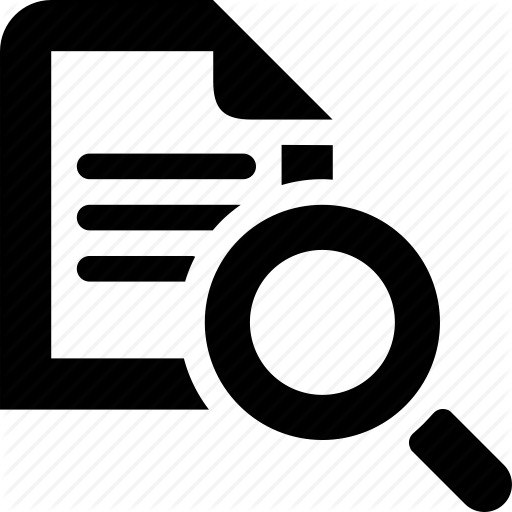
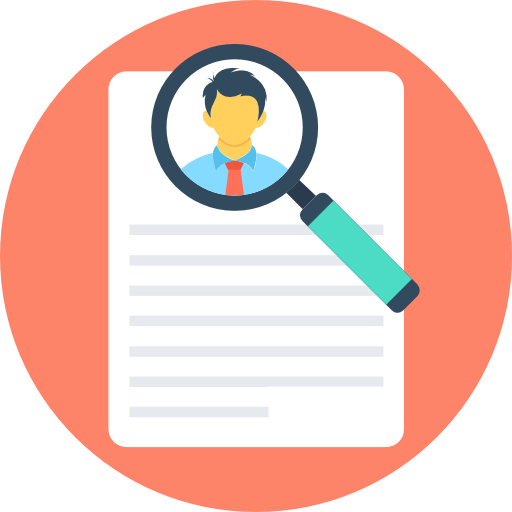
restyle

diff --git a/lib/rescan.html b/lib/rescan.html
@@ -12,11 +12,14 @@
     <link rel="stylesheet" href="./css/results-percentage.css" type="text/css">
     <link rel="stylesheet" href="../assets/rescan.css" type="text/css">
     <link href="https://fonts.googleapis.com/css?family=Abril+Fatface" rel="stylesheet">
+    <link href="https://fonts.googleapis.com/css?family=Lobster" rel="stylesheet">
+    <link href="https://fonts.googleapis.com/css?family=Questrial" rel="stylesheet">
     <title>re:Scan</title>
   </head>
   <body>
     <div id="root">
       <div class="header-container">
+        <img src="icon.png" alt="icon" height="100" width="100">
         <h1>re:Scan</h1>
         <div id="sub">a light weight resume scanner</div>
       </div>
@@ -27,7 +30,7 @@
       </div>
 
       <div class="jd-container">
-        <button id="extract-description">Get description</button>
+        <button id="extract-description">Get Similarity Score</button>
       </div>
 
       <div class="results-container">

diff --git a/lib/css/resume-submission.css b/lib/css/resume-submission.css
@@ -13,32 +13,37 @@
   display: none;
   color: #383838;
   font-size: 11.5px;
+  outline: none;
 }
 
 #upload-resume {
-  margin: auto;
-  font-family: 'Raleway', sans-serif;
-  font-weight: 400;
-  color: #4F628E;
   outline: 0;
   width: 60%;
-  padding: 8px;
+  padding: 10px;
   border: none;
   box-shadow: none;
   box-sizing: border-box;
-  font-size: 14px;
-  font-weight: 500;
+  font-size: 15px;
+  font-weight: 400;
   margin-top: 10px;
   color: white;
-  background-color: #4F628E;
+  background-color: #fd9078;
   text-align: center;
+  box-shadow: 0 5px #c1bab8;
   cursor: pointer;
   border-radius: 20px;
 }
 
 #upload-resume:hover {
   cursor: pointer;
-  background-color: #4F628E;
+  background-color: #fd9078;
+  box-shadow: 0 5px #c1bab8;
   transition: 0.3s;
-  color: #3e3e3e;
+}
+
+#upload-resume:active {
+  background-color: #fd9078;
+  color: white;
+  box-shadow: 0 2.5px #c1bab8;
+  transform: translateY(2px);
 }

diff --git a/lib/css/master.css b/lib/css/master.css
@@ -10,9 +10,9 @@ html, body, div, textarea, button, h1, h2, h3, ul, textarea{
   background: transparent;
   visibility: inherit;
 
-  font-family: 'Raleway', sans-serif;
+  font-family: 'Questrial', sans-serif;
   font-weight: 400;
-  color: white;
+  color: #324A5E;
 }
 
 li {
@@ -21,7 +21,7 @@ li {
 
 body {
   width: 450px;
-  background: #7887AB;
+  background: #E6E9EE;
   margin-bottom: 25px;
 
 }
@@ -30,11 +30,11 @@ h1 {
   font-size: 35px;
   font-weight: 400;
   text-align: center;
-  font-family: 'Abril Fatface', cursive;
+  font-family: 'Lobster', cursive;
 }
 
 h2 {
-  font-family: 'Abril Fatface', cursive;
+  font-family: 'Lobster', cursive;
   font-size: 25px;
   text-align: left;
 }
@@ -47,8 +47,13 @@ h3 {
 }
 
 .header-container {
-  margin: 20px;
+  margin-top: 20px;
+  margin-bottom: 10px;
+}
 
+.header-container img {
+  display: block;
+  margin: 0 auto;
 }
 
 

diff --git a/lib/css/jd-description.css b/lib/css/jd-description.css
@@ -5,30 +5,33 @@
 }
 
 #extract-description {
-  margin: auto;
-  font-family: 'Raleway', sans-serif;
-  font-weight: 400;
-  color: #4F628E;
-
   outline: 0;
   width: 60%;
-  padding: 8px;
+  padding: 10px;
   border: none;
   box-shadow: none;
   box-sizing: border-box;
-  font-size: 14px;
-  font-weight: 500;
+  font-size: 15px;
+  font-weight: 400;
   margin-top: 10px;
   color: white;
-  background-color: #4F628E;
+  background-color: #fd9078;
   text-align: center;
+  box-shadow: 0 5px #c1bab8;
   cursor: pointer;
   border-radius: 20px;
 }
 
 #extract-description:hover {
   cursor: pointer;
-  background-color: #4F628E;
+  background-color: #fd9078;
+  box-shadow: 0 5px #c1bab8;
   transition: 0.3s;
-  color: #3e3e3e;
+}
+
+#extract-description:active {
+  background-color: #fd9078;
+  color: white;
+  box-shadow: 0 2.5px #c1bab8;
+  transform: translateY(2px);
 }

diff --git a/lib/css/results-percentage.css b/lib/css/results-percentage.css
@@ -27,7 +27,7 @@
 .container {
   width: 80%;
   margin: 10px;
-  background: #7887AB;
+  background: #E6E9EE;
   padding: 0;
   overflow: hidden;
   float: left;
@@ -44,15 +44,15 @@
   position: relative;
   width: 100%;
   height: 20px;
-  background: #ebebeb;
+  background: #fff;
 }
 
 .horizontal .progress-fill {
   position: relative;
-  background: #061539;
+  background: #4CDBC4;
   height: 20px;
   width: 0%;
-  color: #fff;
+  color: #3e3e3e;
   text-align: center;
   font-family: "Lato","Verdana",sans-serif;
   font-size: 12px;
@@ -60,7 +60,7 @@
 }
 
 #percentage {
-  color: white;
+  color: #3e3e3e;
 }
 
 .progress-track, .progress-fill {
